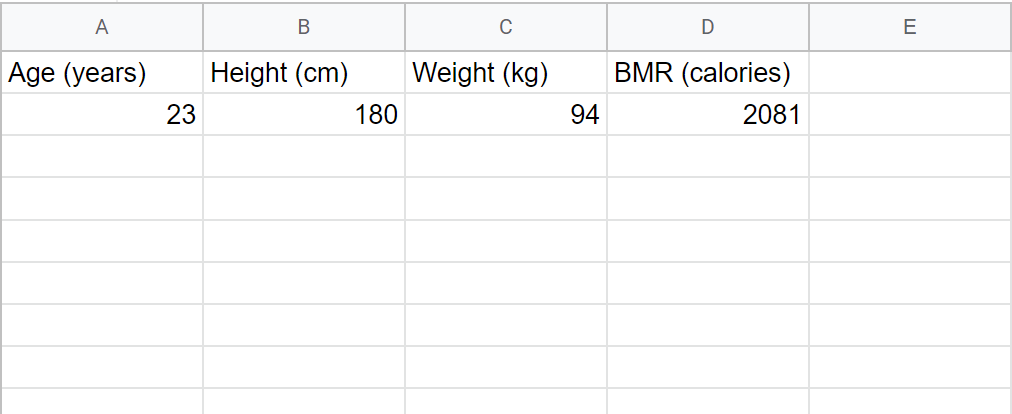
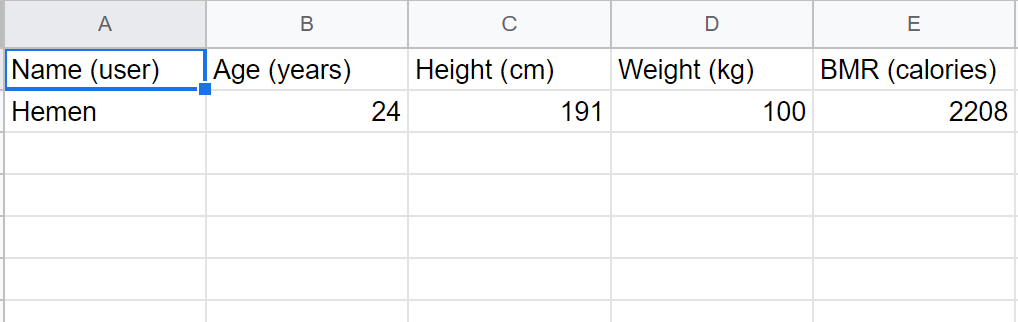
docs: Add content regarding the new functions

Changed region(s): [[0.0, 0.0, 1.0, 1.0], [0.1838, 0.7143, 0.2144, 0.7453]]

diff --git a/run.py b/run.py
@@ -40,7 +40,7 @@ def input_with_validation(input_message, validation_rule=None,
 
 
 def add_row_to_spreadsheet(row):
-    """ Add result to the Google Spreadsheet
+    """ Add result and variables to the Google Spreadsheet
     """
     # These lines of code are credited to Anna Greaves' Love Sandwiches
     print("Updating bmr_outpt worksheet...\n")

diff --git a/README.md b/README.md
@@ -80,7 +80,15 @@ This flowchart was created using [diagrams.net](https://www.diagrams.net/)
 
 __Main__:
 
-The main() function's purpose is to store all other functions which are executed in order, for the app. Once this function has finished running, the app is ended, and the user is presented with a message, thanking them for their usage. The code that exports and stores the results in a Google Sheet can be found in this function, close to the bottom.
+The main() function's purpose is to store all other functions which are executed in order, for the app. Once this function has finished running, the app is ended, and the user is presented with a message, thanking them for their usage. 
+
+__input_with_validation__:
+
+The input_with_validation() function creates input messages for the user, which is then converted into an interger, so that the print message does not display a float number. The error message is executed if the user enters a value which is lower or exceeds the acceptable parameter that has been set, or if an invalid value has been entered, such as a string or a float. 
+
+__add_row_to_spreadsheet__:
+
+The add_row_to_spreadsheet() function contains the codes which will export and store the user's result and entered variables into a Google Sheet. It also contains print messages which are in place to notify the user that the application is still running.
 
 __Age Variable__:
 
